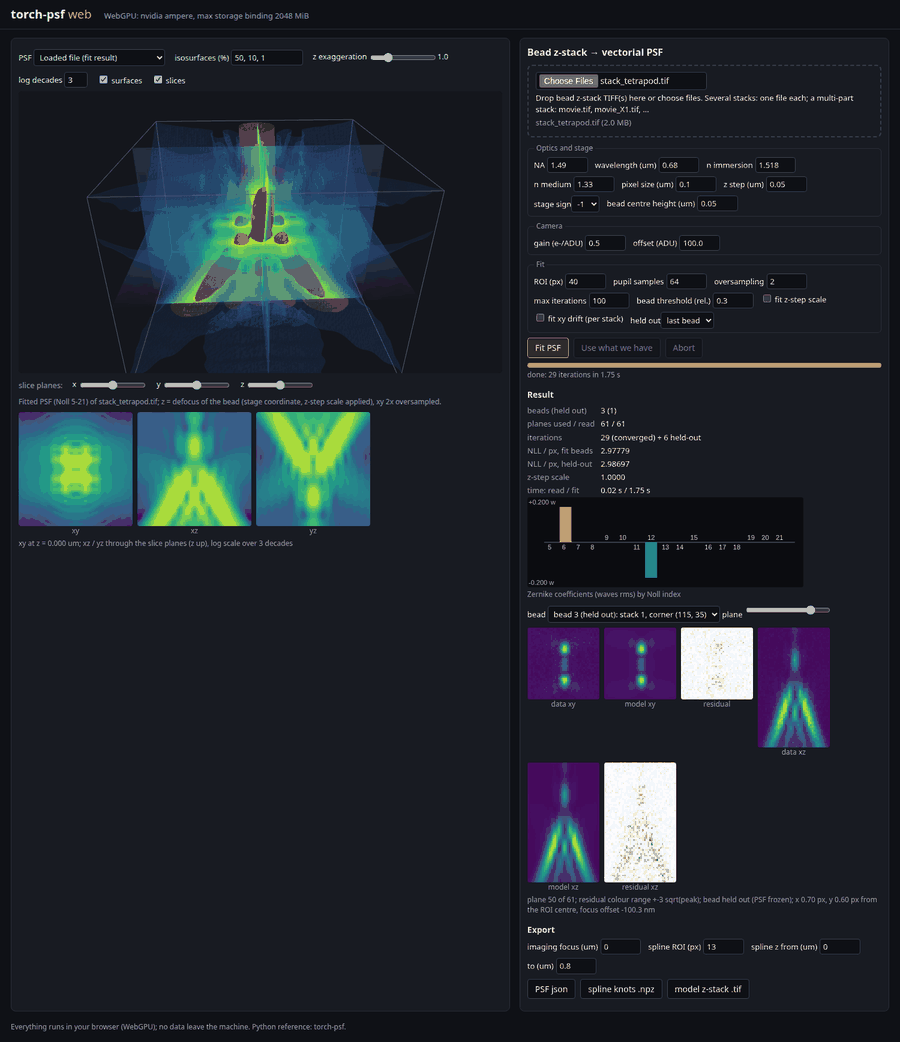
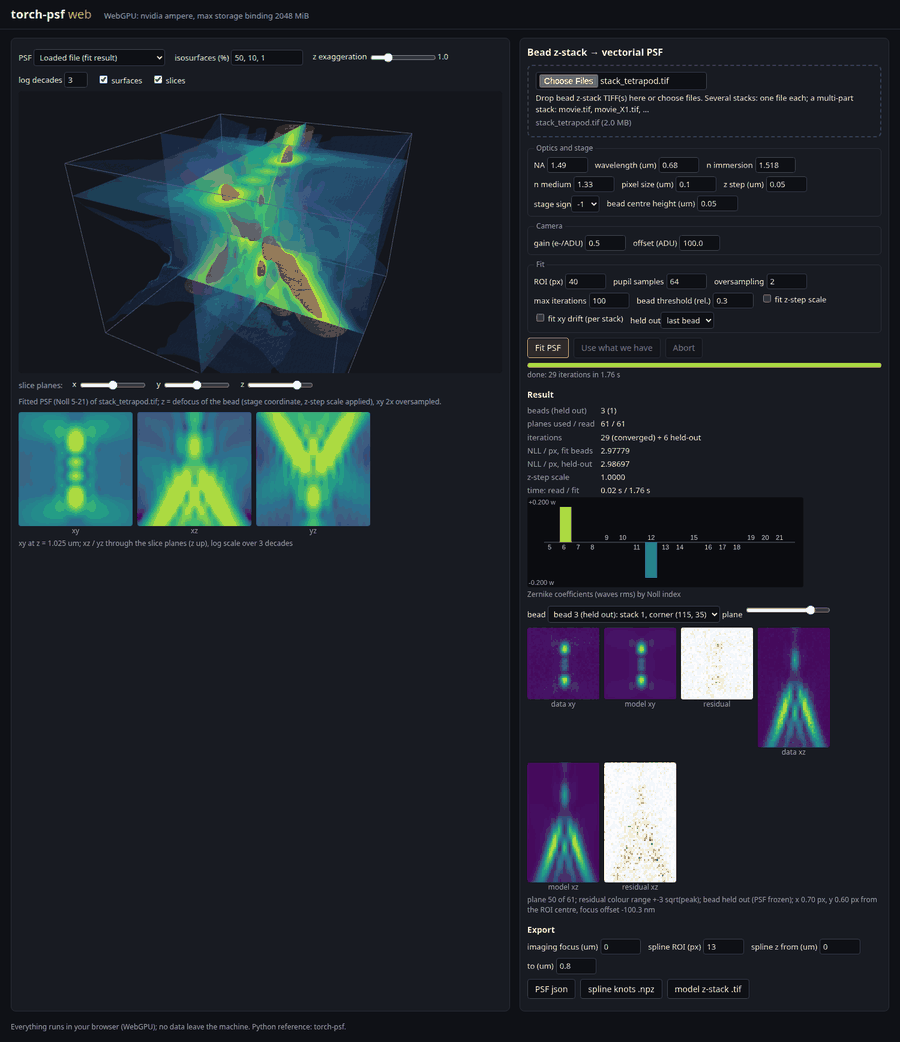
web 3D view: draggable slice planes (hover outline, drag along the normal, orbit off while dragging, sliders in sync), z exaggeration without isosurface recomputation, bilinear slice textures interpolated between planes; screenshot driver checks the drag

diff --git a/web/src/ui/view3d.ts b/web/src/ui/view3d.ts
@@ -1,6 +1,7 @@
 // The 3D PSF view (three.js): nested translucent isosurfaces at relative levels of the peak and three orthogonal
-// slice planes on a log colour scale, moved through the volume. Orbit controls; optional slow auto-rotation that
-// stops on the first mouse / touch interaction. Shared by the web app and the viewer page.
+// slice planes on a log colour scale (bilinear, interpolated between planes), moved through the volume with sliders or
+// by dragging a plane along its normal (hover highlights it). Orbit controls; optional slow auto-rotation that stops on
+// the first mouse / touch interaction. Shared by the web app and the viewer page.
 import * as THREE from 'three';
 import { OrbitControls } from 'three/examples/jsm/controls/OrbitControls.js';
 import { isosurface } from './isosurface';
@@ -18,6 +19,7 @@ export interface ViewOptions { levels: number[]; zExag: number; decades: number;
 
 const ISO_COLORS = [0xffd84d, 0xff8a3d, 0x3d8bff, 0x9b6bff];
 const ISO_OPACITY = [0.9, 0.45, 0.18, 0.12];
+const SLICE_AXIS: (0 | 1 | 2)[] = [2, 1, 0];   // normal axis of the slice meshes [xy, xz, yz]
 
 export class View3D {
   readonly renderer: THREE.WebGLRenderer;
@@ -27,14 +29,21 @@ export class View3D {
   private group = new THREE.Group();
   private isoGroup = new THREE.Group();
   private slices: THREE.Mesh[] = [];
+  private outlines: THREE.LineSegments[] = [];
   private box: THREE.LineSegments | null = null;
   private vol: Volume | null = null;
   private vmax = 1;
+  private isoKey = '';
   opts: ViewOptions = { levels: [0.5, 0.1, 0.01], zExag: 1, decades: 3, showSlices: true, showIso: true };
   slicePos = [0.5, 0.5, 0.5];   // fractions along x, y, z
   autoRotate = true;
+  /** called when a slice plane is moved by dragging (to keep sliders in sync) */
+  onSliceChange: ((axis: 0 | 1 | 2, frac: number) => void) | null = null;
   private raf = 0;
   private lastExtent = 0;
+  private hovered = -1;
+  private drag: { axis: 0 | 1 | 2; p: THREE.Vector3; n: THREE.Vector3; c0: number } | null = null;
+  private ray = new THREE.Raycaster();
 
   constructor(private el: HTMLElement) {
     this.renderer = new THREE.WebGLRenderer({ antialias: true, preserveDrawingBuffer: true });
@@ -50,6 +59,7 @@ export class View3D {
     this.controls.autoRotateSpeed = 0.8;
     const stop = () => { this.autoRotate = false; this.controls.autoRotate = false; };
     for (const ev of ['pointerdown', 'wheel', 'touchstart']) this.renderer.domElement.addEventListener(ev, stop, { passive: true });
+    this.initDrag();
     this.scene.add(new THREE.AmbientLight(0xffffff, 0.55));
     const dl = new THREE.DirectionalLight(0xffffff, 1.1); dl.position.set(2, -3, 4); this.scene.add(dl);
     const dl2 = new THREE.DirectionalLight(0xffffff, 0.4); dl2.position.set(-3, 2, -2); this.scene.add(dl2);
@@ -70,10 +80,78 @@ export class View3D {
     this.camera.updateProjectionMatrix();
   }
 
+  // ---------------------------------------------------------------- dragging the slice planes
+  private pick(ev: PointerEvent): THREE.Intersection | null {
+    if (!this.slices.length) return null;
+    const r = this.renderer.domElement.getBoundingClientRect();
+    const m = new THREE.Vector2(((ev.clientX - r.left) / r.width) * 2 - 1, -((ev.clientY - r.top) / r.height) * 2 + 1);
+    this.ray.setFromCamera(m, this.camera);
+    return this.ray.intersectObjects(this.slices, false)[0] ?? null;
+  }
+
+  private setHover(i: number) {
+    if (i === this.hovered) return;
+    this.hovered = i;
+    this.outlines.forEach((o, k) => { o.visible = k === i; });
+    this.renderer.domElement.style.cursor = i >= 0 ? 'grab' : '';
+  }
+
+  /** world coordinate along `axis` of the slice at fraction f, and back */
+  private axisWorld(axis: number, f: number) {
+    const v = this.vol!, s = this.scale(), n = [v.nx, v.ny, v.nz][axis], sc = [s.x, s.y, s.z][axis];
+    return (f * (n - 1) - (n - 1) / 2) * sc;
+  }
+
+  private axisFrac(axis: number, w: number) {
+    const v = this.vol!, s = this.scale(), n = [v.nx, v.ny, v.nz][axis], sc = [s.x, s.y, s.z][axis];
+    return Math.max(0, Math.min(1, (w / sc + (n - 1) / 2) / Math.max(1, n - 1)));
+  }
+
+  private initDrag() {
+    const cv = this.renderer.domElement;
+    // capture phase on the container: runs before OrbitControls' own pointerdown handler on the canvas
+    this.el.addEventListener('pointerdown', (ev) => {
+      const hit = this.pick(ev);
+      if (!hit) return;
+      const axis = SLICE_AXIS[this.slices.indexOf(hit.object as THREE.Mesh)];   // slices are [xy, xz, yz]
+      const n = new THREE.Vector3(axis === 0 ? 1 : 0, axis === 1 ? 1 : 0, axis === 2 ? 1 : 0);
+      this.drag = { axis, p: hit.point.clone(), n, c0: this.axisWorld(axis, this.slicePos[axis]) };
+      this.controls.enabled = false;
+      cv.setPointerCapture(ev.pointerId);
+      cv.style.cursor = 'grabbing';
+    }, { capture: true });
+    cv.addEventListener('pointermove', (ev) => {
+      if (!this.drag) { this.setHover(this.slices.indexOf((this.pick(ev)?.object ?? null) as THREE.Mesh)); return; }
+      const r = cv.getBoundingClientRect();
+      this.ray.setFromCamera(new THREE.Vector2(((ev.clientX - r.left) / r.width) * 2 - 1, -((ev.clientY - r.top) / r.height) * 2 + 1), this.camera);
+      // closest point of the mouse ray to the line through the grab point along the plane normal
+      const d = this.ray.ray.direction, o = this.ray.ray.origin, { p, n } = this.drag;
+      const w = o.clone().sub(p);
+      const b = d.dot(n), den = 1 - b * b;   // |d| = |n| = 1
+      if (den < 1e-4) return;                // looking along the normal
+      const t = (n.dot(w) - b * d.dot(w)) / den;
+      const f = this.axisFrac(this.drag.axis, this.drag.c0 + t);
+      this.setSlice(this.drag.axis, f);
+      this.onSliceChange?.(this.drag.axis, f);
+    });
+    const end = (ev: PointerEvent) => {
+      if (!this.drag) return;
+      this.drag = null;
+      this.controls.enabled = true;
+      if (cv.hasPointerCapture(ev.pointerId)) cv.releasePointerCapture(ev.pointerId);
+      cv.style.cursor = this.hovered >= 0 ? 'grab' : '';
+    };
+    cv.addEventListener('pointerup', end);
+    cv.addEventListener('pointercancel', end);
+    cv.addEventListener('pointerleave', () => { if (!this.drag) this.setHover(-1); });
+  }
+
+  // ---------------------------------------------------------------- volume, isosurfaces, transforms
   setVolume(v: Volume) {
     this.vol = v;
     let m = 0; for (const x of v.data) m = Math.max(m, x);
     this.vmax = m || 1;
+    this.isoKey = '';
     this.rebuild();
   }
 
@@ -83,42 +161,26 @@ export class View3D {
     return new THREE.Vector3(v.dx_um, v.dx_um, v.dz_um * this.opts.zExag);
   }
 
+  /** Change the z exaggeration: only transforms are updated (no isosurface extraction). */
+  setZExag(z: number) { this.opts.zExag = z; this.applyTransform(); }
+
+  /** Full update after a change of options. Isosurfaces are recomputed only when the volume, the levels or the
+   *  surface toggle changed; a z-exaggeration change only updates the transforms. */
   rebuild() {
     const v = this.vol;
     if (!v) return;
-    for (const c of [...this.isoGroup.children]) { this.isoGroup.remove(c); (c as THREE.Mesh).geometry.dispose(); }
-    const s = this.scale();
-    const cx = (v.nx - 1) / 2, cy = (v.ny - 1) / 2, cz = (v.nz - 1) / 2;
-    this.isoGroup.position.set(-cx * s.x, -cy * s.y, -cz * s.z);
-    this.isoGroup.scale.copy(s);
-    const norm = new Float32Array(v.data.length);
-    for (let i = 0; i < norm.length; i++) norm[i] = v.data[i] / this.vmax;
-    if (this.opts.showIso) {
-      // innermost (highest level) first; the outer, more transparent shells are drawn after it
-      const levels = [...this.opts.levels].sort((a, b) => b - a);
-      levels.forEach((lv, i) => {
-        const m = isosurface(norm, v.nx, v.ny, v.nz, lv);
-        if (!m.positions.length) return;
-        const g = new THREE.BufferGeometry();
-        g.setAttribute('position', new THREE.BufferAttribute(m.positions, 3));
-        // normals are in grid units; with an anisotropic scale three.js uses the normal matrix, which is correct
-        g.setAttribute('normal', new THREE.BufferAttribute(m.normals, 3));
-        const mat = new THREE.MeshPhongMaterial({
-          color: ISO_COLORS[i % ISO_COLORS.length], transparent: true, opacity: ISO_OPACITY[i % ISO_OPACITY.length],
-          side: THREE.DoubleSide, depthWrite: i === 0, shininess: 40,
-        });
-        const mesh = new THREE.Mesh(g, mat);
-        mesh.renderOrder = i;
-        this.isoGroup.add(mesh);
-      });
+    const key = JSON.stringify([this.opts.levels, this.opts.showIso]);
+    if (key !== this.isoKey) { this.buildIso(); this.isoKey = key; }
+    if (!this.box) {
+      const bx = new THREE.BoxGeometry(1, 1, 1);
+      this.box = new THREE.LineSegments(new THREE.EdgesGeometry(bx), new THREE.LineBasicMaterial({ color: 0x556070 }));
+      bx.dispose();
+      this.group.add(this.box);
     }
-    // bounding box
-    if (this.box) { this.group.remove(this.box); this.box.geometry.dispose(); }
-    const bx = new THREE.BoxGeometry((v.nx - 1) * s.x, (v.ny - 1) * s.y, (v.nz - 1) * s.z);
-    this.box = new THREE.LineSegments(new THREE.EdgesGeometry(bx), new THREE.LineBasicMaterial({ color: 0x556070 }));
-    bx.dispose();
-    this.group.add(this.box);
-    this.buildSlices();
+    if ((this.slices.length > 0) !== this.opts.showSlices) this.buildSlices();
+    this.applyTransform();
+    this.updateSlices();
+    const s = this.scale();
     const r = Math.max((v.nx - 1) * s.x, (v.ny - 1) * s.y, (v.nz - 1) * s.z);
     this.controls.target.set(0, 0, 0);
     if (Math.abs(r - this.lastExtent) > 0.05 * r) {   // a new kind of volume: frame it
@@ -127,36 +189,95 @@ export class View3D {
     }
   }
 
-  private buildSlices() {
-    for (const m of this.slices) { this.group.remove(m); m.geometry.dispose(); ((m.material as THREE.MeshBasicMaterial).map)?.dispose(); }
-    this.slices = [];
-    const v = this.vol;
-    if (!v || !this.opts.showSlices) return;
-    const s = this.scale();
-    const W = (v.nx - 1) * s.x, Hh = (v.ny - 1) * s.y, Z = (v.nz - 1) * s.z;
-    const mk = (w: number, h: number) => {
-      const m = new THREE.Mesh(new THREE.PlaneGeometry(w, h), new THREE.MeshBasicMaterial({ side: THREE.DoubleSide, transparent: true, opacity: 0.85, depthWrite: false }));
-      m.renderOrder = 10;
-      this.group.add(m);
-      this.slices.push(m);
-      return m;
-    };
-    mk(W, Hh);                                   // xy (normal z)
-    const xz = mk(W, Z); xz.rotation.x = Math.PI / 2;
-    const yz = mk(Hh, Z); yz.rotation.set(Math.PI / 2, Math.PI / 2, 0);
-    this.updateSlices();
+  private buildIso() {
+    const v = this.vol!;
+    for (const c of [...this.isoGroup.children]) { this.isoGroup.remove(c); (c as THREE.Mesh).geometry.dispose(); }
+    if (!this.opts.showIso) return;
+    const norm = new Float32Array(v.data.length);
+    for (let i = 0; i < norm.length; i++) norm[i] = v.data[i] / this.vmax;
+    // innermost (highest level) first; the outer, more transparent shells are drawn after it
+    const levels = [...this.opts.levels].sort((a, b) => b - a);
+    levels.forEach((lv, i) => {
+      const m = isosurface(norm, v.nx, v.ny, v.nz, lv);
+      if (!m.positions.length) return;
+      const g = new THREE.BufferGeometry();
+      g.setAttribute('position', new THREE.BufferAttribute(m.positions, 3));
+      // normals are in grid units; with an anisotropic scale three.js uses the normal matrix, which is correct
+      g.setAttribute('normal', new THREE.BufferAttribute(m.normals, 3));
+      const mat = new THREE.MeshPhongMaterial({
+        color: ISO_COLORS[i % ISO_COLORS.length], transparent: true, opacity: ISO_OPACITY[i % ISO_OPACITY.length],
+        side: THREE.DoubleSide, depthWrite: i === 0, shininess: 40,
+      });
+      const mesh = new THREE.Mesh(g, mat);
+      mesh.renderOrder = i;
+      this.isoGroup.add(mesh);
+    });
   }
 
-  /** The three section images (log scale) at the current slice positions: xy [ny, nx], xz [nz, nx], yz [nz, ny]. */
+  /** Scale-dependent transforms: isosurface group, box, slice-plane sizes and positions. */
+  private applyTransform() {
+    const v = this.vol;
+    if (!v) return;
+    const s = this.scale();
+    const W = (v.nx - 1) * s.x, H = (v.ny - 1) * s.y, Z = (v.nz - 1) * s.z;
+    this.isoGroup.position.set(-(v.nx - 1) / 2 * s.x, -(v.ny - 1) / 2 * s.y, -(v.nz - 1) / 2 * s.z);
+    this.isoGroup.scale.copy(s);
+    this.box?.scale.set(W, H, Z);
+    if (this.slices.length === 3) {
+      const [xy, xz, yz] = this.slices;
+      xy.scale.set(W, H, 1); xz.scale.set(W, Z, 1); yz.scale.set(H, Z, 1);
+      this.positionSlices();
+    }
+  }
+
+  private positionSlices() {
+    if (this.slices.length < 3 || !this.vol) return;
+    const [xy, xz, yz] = this.slices;
+    xy.position.set(0, 0, this.axisWorld(2, this.slicePos[2]));
+    xz.position.set(0, this.axisWorld(1, this.slicePos[1]), 0);
+    yz.position.set(this.axisWorld(0, this.slicePos[0]), 0, 0);
+  }
+
+  private buildSlices() {
+    for (const m of this.slices) { this.group.remove(m); m.geometry.dispose(); ((m.material as THREE.MeshBasicMaterial).map)?.dispose(); }
+    for (const o of this.outlines) o.geometry.dispose();
+    this.slices = []; this.outlines = []; this.hovered = -1;
+    if (!this.vol || !this.opts.showSlices) return;
+    const pg = new THREE.PlaneGeometry(1, 1);
+    const eg = new THREE.EdgesGeometry(pg);
+    const mk = () => {
+      const m = new THREE.Mesh(pg.clone(), new THREE.MeshBasicMaterial({ side: THREE.DoubleSide, transparent: true, opacity: 0.85, depthWrite: false }));
+      m.renderOrder = 10;
+      const o = new THREE.LineSegments(eg.clone(), new THREE.LineBasicMaterial({ color: 0xffffff, depthTest: false, transparent: true }));
+      o.renderOrder = 11;
+      o.visible = false;
+      m.add(o);
+      this.group.add(m);
+      this.slices.push(m);
+      this.outlines.push(o);
+      return m;
+    };
+    mk();                                        // xy (normal z)
+    mk().rotation.x = Math.PI / 2;               // xz (normal y)
+    mk().rotation.set(Math.PI / 2, Math.PI / 2, 0);   // yz (normal x)
+    pg.dispose(); eg.dispose();
+  }
+
+  /** The three section images at the current slice positions, linearly interpolated between the two neighbouring
+   *  planes: xy [ny, nx], xz [nz, nx], yz [nz, ny]; ix, iy, iz are the (fractional) plane indices. */
   sections(): { xy: Float32Array; xz: Float32Array; yz: Float32Array; ix: number; iy: number; iz: number } | null {
     const v = this.vol;
     if (!v) return null;
-    const ix = Math.round(this.slicePos[0] * (v.nx - 1)), iy = Math.round(this.slicePos[1] * (v.ny - 1)), iz = Math.round(this.slicePos[2] * (v.nz - 1));
-    const xy = v.data.slice(iz * v.nx * v.ny, (iz + 1) * v.nx * v.ny);
-    const xz = new Float32Array(v.nz * v.nx), yz = new Float32Array(v.nz * v.ny);
-    for (let k = 0; k < v.nz; k++) {
-      for (let i = 0; i < v.nx; i++) xz[k * v.nx + i] = v.data[(k * v.ny + iy) * v.nx + i];
-      for (let j = 0; j < v.ny; j++) yz[k * v.ny + j] = v.data[(k * v.ny + j) * v.nx + ix];
+    const { nx, ny, nz, data } = v;
+    const ix = this.slicePos[0] * (nx - 1), iy = this.slicePos[1] * (ny - 1), iz = this.slicePos[2] * (nz - 1);
+    const split = (t: number, n: number): [number, number, number] => { const a = Math.min(Math.floor(t), Math.max(0, n - 2)); return [a, Math.min(a + 1, n - 1), t - a]; };
+    const [z0, z1, fz] = split(iz, nz), [y0, y1, fy] = split(iy, ny), [x0, x1, fx] = split(ix, nx);
+    const xy = new Float32Array(nx * ny);
+    for (let i = 0; i < nx * ny; i++) xy[i] = (1 - fz) * data[z0 * nx * ny + i] + fz * data[z1 * nx * ny + i];
+    const xz = new Float32Array(nz * nx), yz = new Float32Array(nz * ny);
+    for (let k = 0; k < nz; k++) {
+      for (let i = 0; i < nx; i++) xz[k * nx + i] = (1 - fy) * data[(k * ny + y0) * nx + i] + fy * data[(k * ny + y1) * nx + i];
+      for (let j = 0; j < ny; j++) yz[k * ny + j] = (1 - fx) * data[(k * ny + j) * nx + x0] + fx * data[(k * ny + j) * nx + x1];
     }
     return { xy, xz, yz, ix, iy, iz };
   }
@@ -164,10 +285,10 @@ export class View3D {
   updateSlices() {
     const v = this.vol, sec = this.sections();
     if (!v || !sec || this.slices.length < 3) return;
-    const s = this.scale();
     const tex = (a: Float32Array, w: number, h: number) => {
       const t = new THREE.DataTexture(toRgba(a, w, h, { vmax: this.vmax, decades: this.opts.decades, alpha: true }), w, h, THREE.RGBAFormat);
-      t.magFilter = THREE.NearestFilter; t.needsUpdate = true; t.colorSpace = THREE.SRGBColorSpace;
+      t.magFilter = THREE.LinearFilter; t.minFilter = THREE.LinearFilter; t.generateMipmaps = false;
+      t.needsUpdate = true; t.colorSpace = THREE.SRGBColorSpace;
       return t;
     };
     const set = (m: THREE.Mesh, t: THREE.DataTexture) => {
@@ -178,9 +299,7 @@ export class View3D {
     set(xy, tex(sec.xy, v.nx, v.ny));
     set(xz, tex(sec.xz, v.nx, v.nz));
     set(yz, tex(sec.yz, v.ny, v.nz));
-    xy.position.set(0, 0, (sec.iz - (v.nz - 1) / 2) * s.z);
-    xz.position.set(0, (sec.iy - (v.ny - 1) / 2) * s.y, 0);
-    yz.position.set((sec.ix - (v.nx - 1) / 2) * s.x, 0, 0);
+    this.positionSlices();
   }
 
   setSlice(axis: 0 | 1 | 2, frac: number) { this.slicePos[axis] = frac; this.updateSlices(); }

diff --git a/web/src/ui/app.ts b/web/src/ui/app.ts
@@ -97,10 +97,11 @@ export function startApp(root: HTMLElement) {
     $('sec-label').textContent = `xy at z = ${z.toFixed(3)} um; xz / yz through the slice planes (z up), log scale over ${dec} decades`;
   }
 
+  view.onSliceChange = (axis, f) => { $<HTMLInputElement>(['sx', 'sy', 'sz'][axis]).value = String(f * 100); drawSections(); };
   for (const [i, id] of ['sx', 'sy', 'sz'].entries()) {
     $<HTMLInputElement>(id).oninput = (e) => { view.setSlice(i as 0 | 1 | 2, +(e.target as HTMLInputElement).value / 100); drawSections(); };
   }
-  $<HTMLInputElement>('zexag').oninput = (e) => { view.opts.zExag = +(e.target as HTMLInputElement).value; $('zexag-v').textContent = view.opts.zExag.toFixed(1); view.rebuild(); };
+  $<HTMLInputElement>('zexag').oninput = (e) => { view.setZExag(+(e.target as HTMLInputElement).value); $('zexag-v').textContent = view.opts.zExag.toFixed(1); };
   $<HTMLInputElement>('levels').onchange = (e) => {
     const lv = (e.target as HTMLInputElement).value.split(/[ ,]+/).map(Number).filter((x) => x > 0 && x < 100).map((x) => x / 100);
     if (lv.length) { view.opts.levels = lv; view.rebuild(); }
@@ -288,9 +289,9 @@ const TEMPLATE = `
       <label><input id="show-slices" type="checkbox" checked> slices</label>
     </div>
     <div id="view3d"></div>
-    <div class="bar">slice planes: <label>x <input id="sx" type="range" min="0" max="100" value="50"></label>
-      <label>y <input id="sy" type="range" min="0" max="100" value="50"></label>
-      <label>z <input id="sz" type="range" min="0" max="100" value="50"></label></div>
+    <div class="bar">slice planes: <label>x <input id="sx" type="range" min="0" max="100" step="0.1" value="50"></label>
+      <label>y <input id="sy" type="range" min="0" max="100" step="0.1" value="50"></label>
+      <label>z <input id="sz" type="range" min="0" max="100" step="0.1" value="50"></label></div>
     <p id="preset-note" class="note"></p>
     <div class="panels">
       <figure><canvas id="sec-xy" width="200" height="200"></canvas><figcaption>xy</figcaption></figure>

diff --git a/web/test/screenshot.py b/web/test/screenshot.py
@@ -33,6 +33,31 @@ def drive_app(pg, base, outdir):
     shot(pg, os.path.join(outdir, 'landing.png'))
     compress(os.path.join(outdir, 'landing.png'))
     print('landing screenshot:', pg.inner_text('#gpu-status'))
+    # 3D view interaction: hover highlights a slice plane, dragging moves it (orbit disabled meanwhile); z exaggeration
+    # without isosurface recomputation
+    pg.evaluate('window.__view.controls.autoRotate = false')
+    time.sleep(1.0)                             # let the orbit damping settle
+    box = pg.locator('#view3d canvas').bounding_box()
+    cx, cy = box['x'] + box['width'] * 0.56, box['y'] + box['height'] * 0.6   # off the planes' common centre
+    pg.mouse.move(cx, cy)
+    hov = pg.evaluate('window.__view.outlines.findIndex((o) => o.visible)')
+    before = pg.evaluate('[...window.__view.slicePos]')
+    cam0 = pg.evaluate('window.__view.camera.position.toArray()')
+    pg.mouse.down(); pg.mouse.move(cx, cy - 60, steps=8); pg.mouse.move(cx + 40, cy - 90, steps=8)
+    during = pg.evaluate('window.__view.controls.enabled')
+    pg.mouse.up()
+    after = pg.evaluate('[...window.__view.slicePos]')
+    cam1 = pg.evaluate('window.__view.camera.position.toArray()')
+    sliders = pg.evaluate("['sx', 'sy', 'sz'].map((i) => +document.getElementById(i).value / 100)")
+    ax = [2, 1, 0][hov] if hov >= 0 else 0      # slice meshes are [xy, xz, yz]
+    ok = hov >= 0 and after[ax] != before[ax] and not during and pg.evaluate('window.__view.controls.enabled') \
+        and max(abs(a - b) for a, b in zip(cam0, cam1)) < 0.05 and abs(sliders[ax] - after[ax]) < 2e-3
+    t = pg.evaluate('''() => { const v = window.__view; let t0 = performance.now(); for (let i = 0; i < 10; i++) v.setZExag(1 + i / 10);
+        const tz = (performance.now() - t0) / 10; v.setZExag(1); t0 = performance.now(); v.isoKey = ''; v.rebuild(); return [tz, performance.now() - t0]; }''')
+    print(f'drag: hovered plane {hov} (axis {ax}), slice {before[ax]:.3f} -> {after[ax]:.3f}, orbit disabled while dragging, '
+          f'slider in sync: {"ok" if ok else "FAILED"}; z exaggeration update {t[0]:.1f} ms vs full rebuild {t[1]:.0f} ms')
+    if not ok:
+        raise RuntimeError(f'slice-plane drag check failed: cam {cam0} -> {cam1}, sliders {sliders}, after {after}')
     for name in ['astig', 'focus']:
         pg.select_option('#preset', name)
         pg.wait_for_function(f"window.__presetShown === '{name}'", timeout=60000)

diff --git a/web/README.md b/web/README.md
@@ -7,7 +7,9 @@ compute shaders), no server and no installation. The Python implementation of th
 ![landing view](docs/landing.png)
 
 On opening, the page shows a default PSF computed on the GPU in a slowly rotating 3D view (it stops on the first mouse
-interaction). Presets: tetrapod-like, astigmatic, in-focus 2D, and the loaded file's fit result.
+interaction). Presets: tetrapod-like, astigmatic, in-focus 2D, and the loaded file's fit result. The three slice
+planes (log scale, bilinear, interpolated between z planes) move with the sliders or by dragging a plane (hover
+highlights it) along its normal.
 The tetrapod-like preset is a Zernike approximation (primary astigmatism Noll 6 = +0.20 and secondary astigmatism Noll 12 =
 -0.20 waves rms), not the published optimized tetrapod pupil.
 
